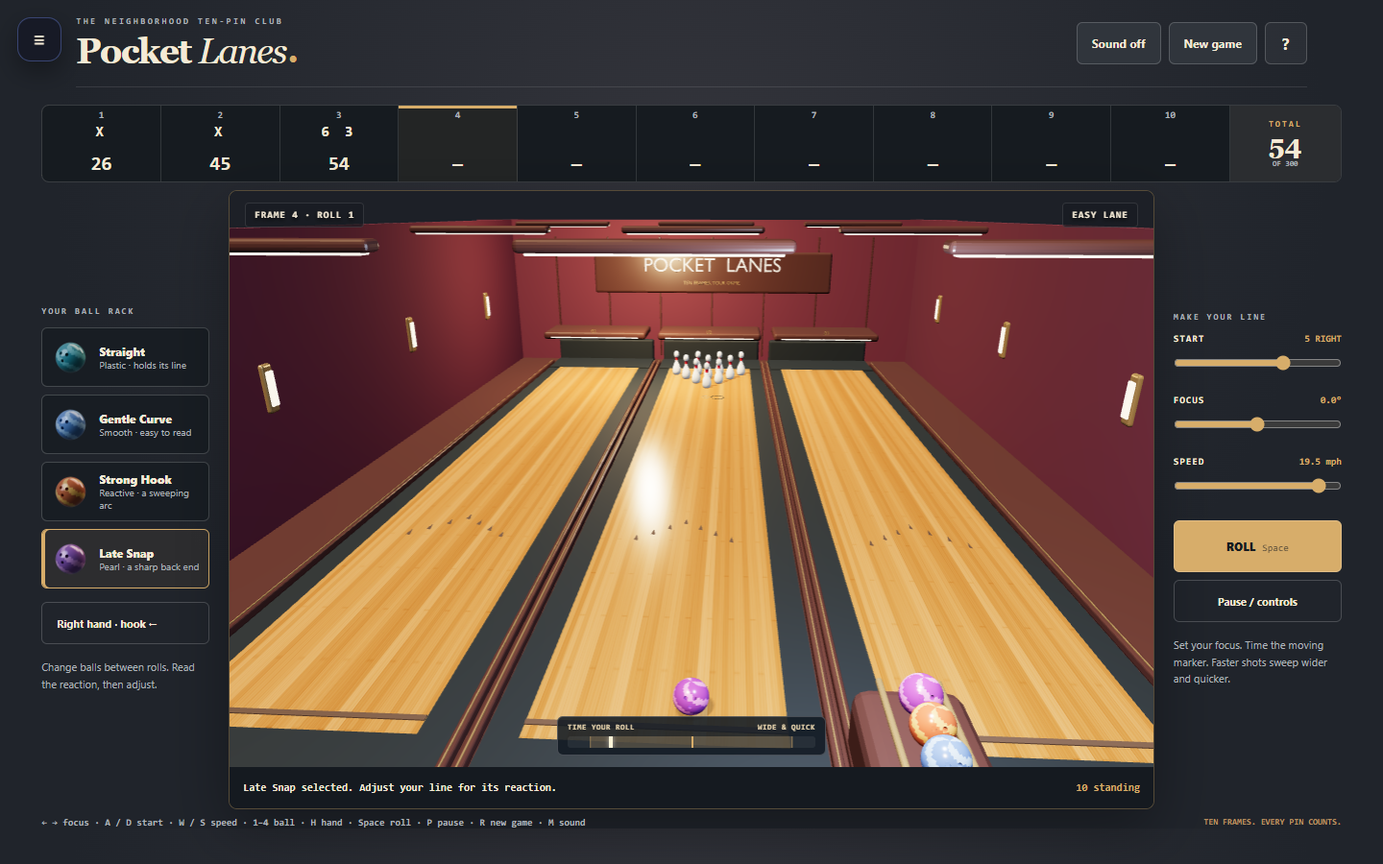
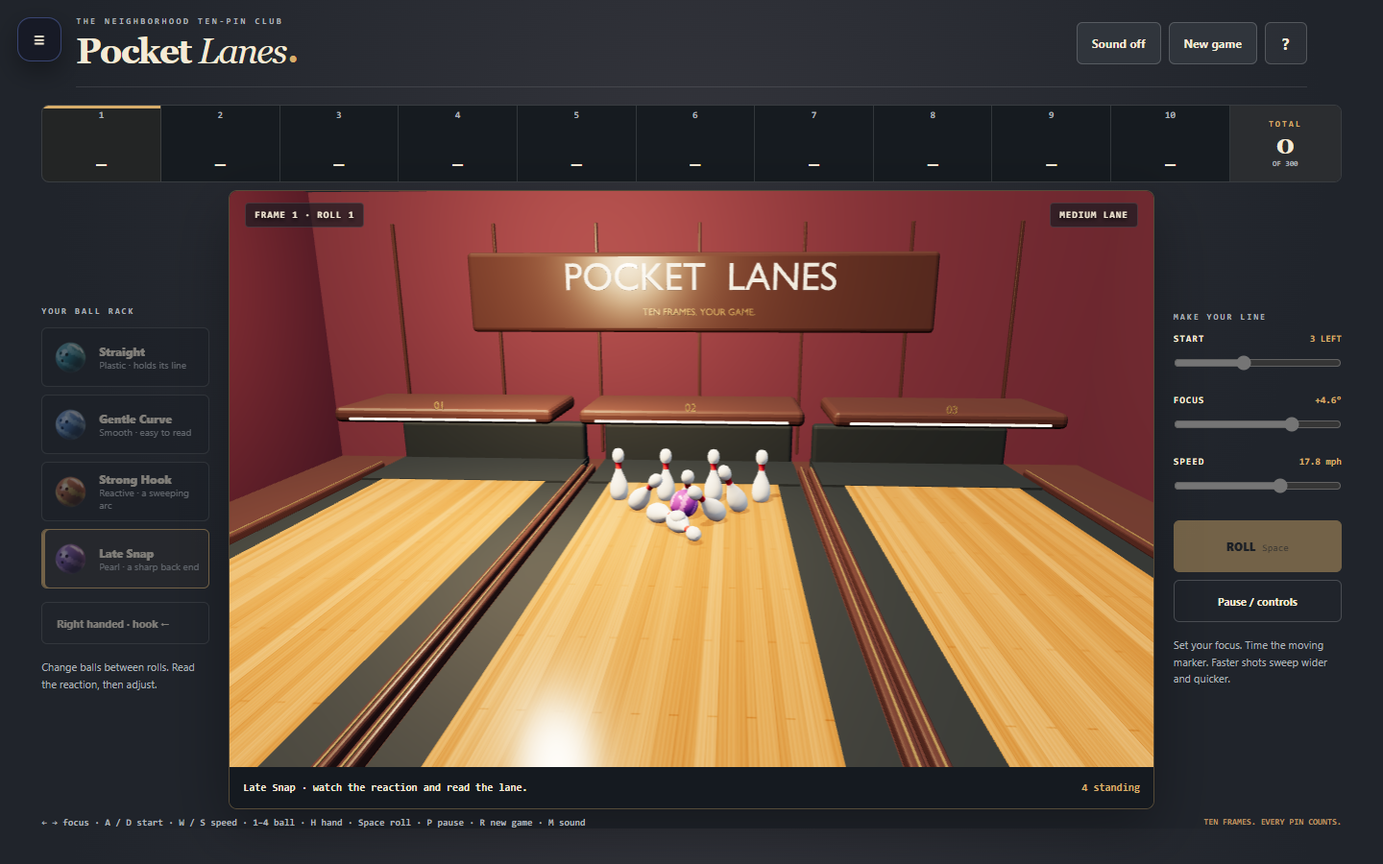
Streamline Pocket Lanes setup and strengthen release timing

diff --git a/pocket-lanes/game.js b/pocket-lanes/game.js
@@ -1,7 +1,10 @@
-import {BowlingView} from './art.js?v=larger-actors-4';
+import {BowlingView} from './art.js?v=quick-start-5';
 const E=window.PocketEngine,$=id=>document.getElementById(id),canvas=document.querySelector('canvas');
 let s=E.create(),view,loaded=false,paused=true,started=false,manual=false,last=performance.now(),accumulator=0,paint=true,sound=false,audio=null,keys=new Set(),drag=null,rollPointer=null,returnOverlay=null;
 const seen={get(){try{return sessionStorage.getItem('pocket-lanes-tenframes-v3-release');}catch{return null;}},set(){try{sessionStorage.setItem('pocket-lanes-tenframes-v3-release','seen');}catch{}}};
+let preferredHand=-1;try{preferredHand=localStorage.getItem('pocket-lanes-hand')==='1'?1:-1;}catch{}
+$('starting-hand').value=String(preferredHand);
+function rememberHand(hand){preferredHand=hand;$('starting-hand').value=String(hand);try{localStorage.setItem('pocket-lanes-hand',String(hand));}catch{}}
 const seed=()=>{try{return crypto.getRandomValues(new Uint32Array(1))[0];}catch{return(Date.now()^Math.floor(Math.random()*0xffffffff))>>>0;}};
 function text(id,value){const el=$(id);if(el.textContent!==String(value))el.textContent=String(value);}
 function resetInput(){keys.clear();drag=null;rollPointer=null;$('roll').classList.remove('held');}
@@ -11,12 +14,12 @@ function overlay(id){resetInput();paused=true;hideOverlays();$(id).hidden=false;
 function showSetup(){returnOverlay=null;$('cancel-setup').hidden=!started;overlay('setup-modal');}
 function showHelp(){returnOverlay=!$('setup-modal').hidden?'setup':s.phase==='complete'&&!$('result').hidden?'result':null;overlay('instruction-modal');text('instruction-close',started?'Return to your game':'Choose your lane');}
 function dismissHelp(){seen.set();hideOverlays();if(!started||returnOverlay==='setup')showSetup();else if(returnOverlay==='result')showResult();else{paused=false;canvas.focus({preventScroll:true});paint=true;sync();}returnOverlay=null;last=performance.now();}
-function startGame(complexity,ball,forcedSeed){s=E.create(complexity,forcedSeed??seed());s.ballId=ball||'straight';started=true;paused=false;hideOverlays();resetInput();syncInputs();paint=true;last=performance.now();accumulator=0;view?.render(s,0,true);canvas.focus({preventScroll:true});sync();}
+function startGame(complexity,ball,forcedSeed,hand=preferredHand){s=E.create(complexity,forcedSeed??seed());s.ballId=ball||'straight';s.hand=hand;rememberHand(hand);started=true;paused=false;hideOverlays();resetInput();syncInputs();paint=true;last=performance.now();accumulator=0;view?.render(s,0,true);canvas.focus({preventScroll:true});sync();}
 function showResult(){const result=E.score(s.frames),strikes=s.frames.flatMap((f,i)=>E.marks(f,i)).filter(v=>v==='X').length,spares=s.frames.flatMap((f,i)=>E.marks(f,i)).filter(v=>v==='/').length;text('final-score',result.total);text('result-title',result.total===300?'A perfect game.':result.total>=200?'A beautiful game.':"That's your game.");text('result-copy',s.complexity.charAt(0).toUpperCase()+s.complexity.slice(1)+' lane · '+strikes+' strikes · '+spares+' spares. A new game brings a new hidden pattern.');overlay('result');$('new-run').focus({preventScroll:true});}
 function syncInputs(){for(const [id,key]of[['position','pos'],['aim','aim'],['speed','speed']])$(id).value=s[key];}
 function syncRelease(){const visible=loaded&&started&&!paused&&s.phase==='ready';$('release-guide').hidden=!visible;if(!visible)return;const sweep=E.aimSweep(s);$('sweep-range').style.width=(sweep.amplitude/.076*96).toFixed(2)+'%';$('release-cursor').style.left=(50+sweep.offset/.076*48).toFixed(2)+'%';text('sweep-label',s.speed<.35?'GENTLE SWEEP':s.speed<.75?'STEADY SWEEP':'WIDE & QUICK');}
 function sync(){syncRelease();const score=E.score(s.frames);text('score',score.total);text('pending',score.pending?'BONUS PENDING':s.phase==='complete'?'FINAL / 300':'OF 300');text('frame-label',s.phase==='complete'?'TEN FRAMES COMPLETE':'FRAME '+s.frame+' · ROLL '+(s.frames[s.frame-1].rolls.length+1));text('lane-label',s.complexity.toUpperCase()+' LANE');text('message',s.last);text('standing',E.standing(s)+' standing');text('position-value',Math.abs(s.pos)<4?'CENTER':Math.round(Math.abs(s.pos)/296*39)+' '+(s.pos<0?'LEFT':'RIGHT'));text('aim-value',(s.aim>0?'+':'')+(Math.atan(s.aim)*180/Math.PI).toFixed(1)+'°');text('speed-value',((300+s.speed*150)*.02/.44704).toFixed(1)+' mph');
- const disabled=paused||!loaded||s.phase!=='ready';for(const id of['position','aim','speed','hand'])$(id).disabled=disabled;for(const b of document.querySelectorAll('.ball-choice')){b.disabled=disabled;b.setAttribute('aria-pressed',String(b.dataset.ball===s.ballId));}text('hand',s.hand<0?'Right hand · hook ←':'Left hand · hook →');$('hand').setAttribute('aria-pressed',String(s.hand>0));$('roll').disabled=paused||!loaded||s.phase==='rolling';const label=s.phase==='between'?'NEXT FRAME':s.phase==='complete'?'NEW GAME':'ROLL';if($('roll').dataset.label!==label){$('roll').dataset.label=label;$('roll').innerHTML=label+(label==='ROLL'?'<span>Space</span>':'');}
+ const disabled=paused||!loaded||s.phase!=='ready';for(const id of['position','aim','speed','hand'])$(id).disabled=disabled;for(const b of document.querySelectorAll('.ball-choice')){b.disabled=disabled;b.setAttribute('aria-pressed',String(b.dataset.ball===s.ballId));}text('hand',s.hand<0?'Right handed · hook ←':'Left handed · hook →');$('hand').setAttribute('aria-pressed',String(s.hand>0));$('hand').setAttribute('aria-label',s.hand<0?'Right handed, hook bends left. Switch to left handed.':'Left handed, hook bends right. Switch to right handed.');$('roll').disabled=paused||!loaded||s.phase==='rolling';const label=s.phase==='between'?'NEXT FRAME':s.phase==='complete'?'NEW GAME':'ROLL';if($('roll').dataset.label!==label){$('roll').dataset.label=label;$('roll').innerHTML=label+(label==='ROLL'?'<span>Space</span>':'');}
  for(let i=0;i<10;i++){const f=s.frames[i],cell=$('scorecard').children[i];cell.classList.toggle('current',s.frame===i+1);cell.querySelector('.frame-rolls').textContent=E.marks(f,i).join(' ');cell.querySelector('.frame-total').textContent=score.totals[i]??'—';cell.setAttribute('aria-label','Frame '+(i+1)+': '+(f.rolls.length?E.marks(f,i).join(', '):'not bowled')+', score '+(score.totals[i]??'pending'));}
 }
 function chooseBall(id){if(paused||s.phase!=='ready')return;s.ballId=id;s.last=E.balls.find(b=>b.id===id).name+' selected. Adjust your line for its reaction.';paint=true;sync();}
@@ -26,9 +29,9 @@ function simulate(dt){if(paused||!started)return;if(s.phase==='ready'){const axi
 for(let i=1;i<=10;i++){$('scorecard').insertAdjacentHTML('beforeend','<div class="frame-cell"><span class="frame-number">'+i+'</span><span class="frame-rolls"></span><b class="frame-total">—</b></div>');}
 for(const ball of E.balls){const b=document.createElement('button');b.className='ball-choice';b.dataset.ball=ball.id;b.setAttribute('aria-pressed',String(ball.id===s.ballId));b.innerHTML='<img src="assets/'+ball.id+'.png" alt=""><div><b>'+ball.name+'</b><span>'+ball.subtitle+'</span></div>';b.addEventListener('click',()=>chooseBall(ball.id));$('balls').append(b);}
 for(const [id,k]of[['position','pos'],['aim','aim'],['speed','speed']])$(id).addEventListener('input',()=>{if(paused||s.phase!=='ready')return;s[k]=Number($(id).value);paint=true;sync();});
-$('hand').addEventListener('click',()=>{if(!paused&&s.phase==='ready'){s.hand*=-1;paint=true;sync();}});
+$('hand').addEventListener('click',()=>{if(!paused&&s.phase==='ready'){s.hand*=-1;rememberHand(s.hand);paint=true;sync();}});
 $('roll').addEventListener('pointerdown',e=>{if($('roll').disabled)return;e.preventDefault();rollPointer=e.pointerId;$('roll').setPointerCapture(e.pointerId);$('roll').classList.add('held');});$('roll').addEventListener('pointerup',e=>{if(rollPointer!==e.pointerId)return;e.preventDefault();rollPointer=null;$('roll').classList.remove('held');const r=$('roll').getBoundingClientRect();if(e.clientX>=r.left&&e.clientX<=r.right&&e.clientY>=r.top&&e.clientY<=r.bottom)roll();});for(const type of['pointercancel','lostpointercapture'])$('roll').addEventListener(type,()=>{rollPointer=null;$('roll').classList.remove('held');});$('roll').addEventListener('click',e=>{if(e.detail===0)roll();});
-$('instruction-close').addEventListener('click',dismissHelp);for(const id of['help-button','pause'])$(id).addEventListener('click',showHelp);$('restart-button').addEventListener('click',showSetup);$('new-run').addEventListener('click',showSetup);$('view-score').addEventListener('click',()=>{hideOverlays();paused=false;paint=true;sync();canvas.focus({preventScroll:true});});$('cancel-setup').addEventListener('click',()=>{hideOverlays();paused=false;if(s.phase==='complete')showResult();paint=true;sync();});$('start-match').addEventListener('click',()=>startGame(document.querySelector('[name=complexity]:checked').value,$('starting-ball').value));$('sound').addEventListener('click',toggleSound);
+$('instruction-close').addEventListener('click',dismissHelp);for(const id of['help-button','pause'])$(id).addEventListener('click',showHelp);$('restart-button').addEventListener('click',showSetup);$('new-run').addEventListener('click',showSetup);$('view-score').addEventListener('click',()=>{hideOverlays();paused=false;paint=true;sync();canvas.focus({preventScroll:true});});$('cancel-setup').addEventListener('click',()=>{hideOverlays();paused=false;if(s.phase==='complete')showResult();paint=true;sync();});$('start-match').addEventListener('click',()=>startGame(document.querySelector('[name=complexity]:checked').value,$('starting-ball').value,undefined,Number($('starting-hand').value)));$('sound').addEventListener('click',toggleSound);
 const moveKeys=['ArrowLeft','ArrowRight','a','d','w','s'];window.addEventListener('keydown',e=>{const k=e.key.length===1?e.key.toLowerCase():e.key,active=[...document.querySelectorAll('.modal')].find(m=>!m.hidden&&getComputedStyle(m).display!=='none');if(active){if(k==='Tab'){const all=[...active.querySelectorAll('button:not([hidden]):not(:disabled),a,select,input')].filter(x=>x.getClientRects().length),i=all.indexOf(document.activeElement);if(e.shiftKey&&i<=0){e.preventDefault();all.at(-1)?.focus();}else if(!e.shiftKey&&i===all.length-1){e.preventDefault();all[0]?.focus();}}return;}const range=e.target.matches('input[type=range]');if(!e.repeat&&k==='r'){e.preventDefault();showSetup();return;}if(!e.repeat&&k==='m')toggleSound();if(!e.repeat&&(k==='p'||k==='Escape')){e.preventDefault();showHelp();return;}if(!e.repeat&&k===' '){e.preventDefault();roll();return;}if(range)return;if(!e.repeat&&['1','2','3','4'].includes(k)){e.preventDefault();chooseBall(E.balls[Number(k)-1].id);}if(!e.repeat&&k==='h'&&!paused&&s.phase==='ready'){$('hand').click();}if(moveKeys.includes(k)){e.preventDefault();if(!paused)keys.add(k);}});window.addEventListener('keyup',e=>keys.delete(e.key.length===1?e.key.toLowerCase():e.key));
 canvas.addEventListener('pointerdown',e=>{if(paused||s.phase!=='ready')return;e.preventDefault();const p=view.ground(e.clientX,e.clientY);if(!p)return;canvas.focus({preventScroll:true});canvas.setPointerCapture(e.pointerId);drag=e.pointerId;if(p.y<280&&p.y>-180&&Math.abs(p.x)<190)s.pos=E.clamp(p.x,-115,115);else if(p.y>180)s.aim=E.clamp((p.x-s.pos)/(p.y-28),-.18,.18);syncInputs();paint=true;sync();});canvas.addEventListener('pointermove',e=>{if(drag!==e.pointerId)return;e.preventDefault();const p=view.ground(e.clientX,e.clientY);if(!p||p.y<100)return;s.aim=E.clamp((p.x-s.pos)/(p.y-28),-.18,.18);syncInputs();paint=true;sync();});for(const type of['pointerup','pointercancel','lostpointercapture'])canvas.addEventListener(type,()=>{drag=null;});canvas.addEventListener('contextmenu',e=>e.preventDefault());
 window.addEventListener('vibecade:reset-input',resetInput);window.addEventListener('vibecade:restart',e=>{e.preventDefault();showSetup();});window.addEventListener('blur',()=>{resetInput();if(started&&!paused&&s.phase!=='complete')showHelp();});document.addEventListener('visibilitychange',()=>{if(document.hidden){resetInput();if(started&&!paused&&s.phase!=='complete')showHelp();}});
@@ -37,4 +40,4 @@ document.addEventListener('bowling-render-error',e=>renderError(e.detail));
 if(seen.get()){$('instruction-modal').classList.remove('is-visible');$('instruction-modal').hidden=true;showSetup();}else overlay('instruction-modal');sync();
 try{view=new BowlingView();await view.load();loaded=true;$('load-state').hidden=true;$('instruction-close').disabled=false;$('start-match').disabled=false;text('instruction-close',started?'Return to your game':'Choose your lane');view.render(s,0,true);sync();}catch(e){console.error(e);renderError('Unable to open the 3D hall. Reload to try again.');}
 function frame(now){const dt=Math.max(0,Math.min(.05,(now-last)/1000));last=now;if(!manual&&!paused){accumulator+=dt;while(accumulator>=1/120){simulate(1/120);accumulator-=1/120;}}if(paint&&!paused||paint&&!started||started&&!paused&&s.phase==='ready'){view?.render(s,dt);syncRelease();if(paint)sync();paint=false;}requestAnimationFrame(frame);}requestAnimationFrame(frame);
-if(new URLSearchParams(location.search).has('test'))window.lanesTest={manual(v){manual=v;},start(c='easy',b='straight',n=1){startGame(c,b,n);},state(){const {oil,...visible}=s;return JSON.parse(JSON.stringify({...visible,score:E.score(s.frames),paused,loaded,sound,sweep:E.aimSweep(s),drag:drag!==null}));},step(t){for(let i=0;i<Math.round(t*120);i++)simulate(1/120);view?.render(s,0,true);sync();},project(x,y){const p=view.project(x,y),r=canvas.getBoundingClientRect();return{x:r.x+(p.x+1)*.5*r.width,y:r.y+(1-p.y)*.5*r.height};},renderer(){return{calls:view.renderer.info.render.calls,triangles:view.renderer.info.render.triangles,geometries:view.renderer.info.memory.geometries,blenderModels:view.model.children.length,shadowCasters:(()=>{const a=[];view.model.traverse(o=>{if(o.isMesh&&o.castShadow)a.push(o.name)});return a;})()};}};
+if(new URLSearchParams(location.search).has('test'))window.lanesTest={manual(v){manual=v;},start(c='easy',b='straight',n=1,h=-1){startGame(c,b,n,h);},state(){const {oil,...visible}=s;return JSON.parse(JSON.stringify({...visible,score:E.score(s.frames),paused,loaded,sound,sweep:E.aimSweep(s),drag:drag!==null}));},step(t){for(let i=0;i<Math.round(t*120);i++)simulate(1/120);view?.render(s,0,true);sync();},project(x,y){const p=view.project(x,y),r=canvas.getBoundingClientRect();return{x:r.x+(p.x+1)*.5*r.width,y:r.y+(1-p.y)*.5*r.height};},renderer(){return{calls:view.renderer.info.render.calls,triangles:view.renderer.info.render.triangles,geometries:view.renderer.info.memory.geometries,blenderModels:view.model.children.length,shadowCasters:(()=>{const a=[];view.model.traverse(o=>{if(o.isMesh&&o.castShadow)a.push(o.name)});return a;})()};}};

diff --git a/pocket-lanes/index.html b/pocket-lanes/index.html
@@ -1,5 +1,5 @@
 <!doctype html>
-<html lang="en"><head><meta charset="utf-8"><meta name="viewport" content="width=device-width,initial-scale=1,viewport-fit=cover"><meta name="theme-color" content="#20242b"><title>Pocket Lanes · Ten-frame bowling</title><link rel="icon" href="data:,"><link rel="stylesheet" href="../flyout.css"><link rel="stylesheet" href="style.css?v=larger-actors-4"><script type="importmap">{"imports":{"three":"./vendor/three.module.min.js"}}</script></head><body class="overlay-open">
+<html lang="en"><head><meta charset="utf-8"><meta name="viewport" content="width=device-width,initial-scale=1,viewport-fit=cover"><meta name="theme-color" content="#20242b"><title>Pocket Lanes · Ten-frame bowling</title><link rel="icon" href="data:,"><link rel="stylesheet" href="../flyout.css"><link rel="stylesheet" href="style.css?v=quick-start-5"><script type="importmap">{"imports":{"three":"./vendor/three.module.min.js"}}</script></head><body class="overlay-open">
 <nav id="flyout-nav" class="flyout-nav" aria-label="Arcade" aria-hidden="true"><button class="flyout-toggle" aria-label="Open arcade menu">☰</button><div id="flyout-panel" class="flyout-panel"></div></nav>
 <header><div class="brand"><small>THE NEIGHBORHOOD TEN-PIN CLUB</small><h1>Pocket <i>Lanes</i><span> ●</span></h1></div><div class="header-actions"><button id="sound" aria-pressed="false" aria-label="Toggle sound">Sound off</button><button id="restart-button">New game</button><button id="help-button" aria-label="Pause and show instructions">?</button></div></header>
 <main><section class="scoreboard" aria-label="Ten-frame bowling scorecard"><div id="scorecard" class="score-grid"></div><div class="score-total"><small>TOTAL</small><b id="score">0</b><span id="pending">OF 300</span></div></section>
@@ -7,7 +7,7 @@
 <section class="cabinet" aria-label="Three-dimensional bowling lane"><div id="playfield"><canvas tabindex="0" aria-label="3D bowling lane. Set an aim focus with a drag or the focus slider. Time Roll as the moving marker sweeps past your chosen line."></canvas><div class="scene-label"><span id="frame-label">FRAME 1 · ROLL 1</span><span id="lane-label">EASY LANE</span></div><div id="release-guide" aria-hidden="true" hidden><div class="release-caption"><span>TIME YOUR ROLL</span><span id="sweep-label">GENTLE SWEEP</span></div><div class="release-track"><span id="sweep-range"></span><i class="focus-tick"></i><i id="release-cursor"></i></div></div><div id="load-state" role="status">Opening the bowling hall…</div></div><div class="readout"><span id="message" aria-live="polite">Ten frames. Your game.</span><span id="standing">10 standing</span></div></section>
 <aside id="shot-controls" aria-label="Shot controls"><div class="section-label">MAKE YOUR LINE</div><label for="position">START <output id="position-value">CENTER</output></label><input id="position" aria-label="Starting position" type="range" min="-115" max="115" value="0" step="1"><label for="aim">FOCUS <output id="aim-value">0°</output></label><input id="aim" aria-label="Aim focus" type="range" min="-0.18" max="0.18" value="0" step="0.001"><label for="speed">SPEED <output id="speed-value">18 mph</output></label><input id="speed" aria-label="Ball speed" type="range" min="0" max="1" value="0.65" step="0.05"><button id="roll" disabled>ROLL <span>Space</span></button><button id="pause">Pause / controls</button><p class="rack-note">Set your focus. Time the moving marker. Faster shots sweep wider and quicker.</p></aside></div>
 <footer>← → focus · A / D start · W / S speed · 1–4 ball · H hand · Space roll · P pause · R new game · M sound <span>TEN FRAMES. EVERY PIN COUNTS.</span></footer></main>
-<div id="instruction-modal" class="modal is-visible" role="dialog" aria-modal="true" aria-labelledby="instruction-title"><div class="modal-card"><small>WELCOME BACK TO THE LANES</small><h2 id="instruction-title" tabindex="-1">Ten frames.<br>Make them yours.</h2><p>Bowl a full game with <b>standard ten-pin scoring</b>. Strikes earn your next two rolls; spares earn your next roll. The tenth frame grants the usual bonus balls. The maximum is 300.</p><p><b>Choose your equipment.</b> Straight holds its line, Gentle Curve rolls a smooth arc, Strong Hook sweeps harder, and Late Snap saves its sharp turn for the back end. Switch balls between shots; choose right or left hand to reverse the hook.</p><p><b>Read the lane.</b> Easy, Medium or Hard selects a new random oil pattern. It stays <b>invisible and consistent for all ten frames</b>. Oil makes the ball slide; dry boards let it grip. Watch your shots and adjust.</p><p><b>Focus, then time your roll.</b> Drag toward your chosen line, or use START and FOCUS. The brass ring marks your focus; the bright ring sweeps around it. ROLL captures the moving aim when you release the button (or press Space). <b>Slow shots sweep narrowly and gently. Faster shots sweep wider and quicker.</b> Watch the marker, then take your shot.</p><p class="keyboard-help">← → aim · A / D start · W / S speed · 1–4 ball · H hand · Space roll · P pause · R new game · M sound.</p><button id="instruction-close" disabled>Loading the hall…</button><a href="../">Back to the arcade ↗</a></div></div>
-<div id="setup-modal" class="modal" role="dialog" aria-modal="true" aria-labelledby="setup-title" hidden><div class="modal-card setup-card"><small>YOUR NEXT TEN FRAMES</small><h2 id="setup-title" tabindex="-1">Pick your lane.</h2><p>One hidden oil pattern per game. Learn it as you bowl.</p><fieldset><legend>Lane complexity</legend><div class="lane-options"><label><input type="radio" name="complexity" value="easy" checked><b>Easy</b><span>A forgiving house pattern</span></label><label><input type="radio" name="complexity" value="medium"><b>Medium</b><span>More variation across the lane</span></label><label><input type="radio" name="complexity" value="hard"><b>Hard</b><span>Demanding sport-style conditions</span></label></div></fieldset><label class="select-label" for="starting-ball">Start with</label><select id="starting-ball"><option value="straight">Straight — plastic, holds its line</option><option value="gentle">Gentle Curve — a smooth arc</option><option value="hook">Strong Hook — a sweeping arc</option><option value="snap">Late Snap — a sharp back end</option></select><button id="start-match" disabled>Start ten frames</button><button id="cancel-setup" class="secondary" hidden>Return to your game</button></div></div>
+<div id="instruction-modal" class="modal is-visible" role="dialog" aria-modal="true" aria-labelledby="instruction-title"><div class="modal-card intro-card"><small>POCKET LANES</small><h2 id="instruction-title" tabindex="-1">Your lane. Ten frames.</h2><button id="instruction-close" disabled>Loading the hall…</button><p>Drag to aim, then tap <b>ROLL</b> as the moving marker crosses the center. Faster shots make timing harder; big misses can find the gutter.</p><p>Choose your ball, hand and lane. Hooks follow your hand; the hidden oil stays the same all game. Standard ten-pin scoring.</p><p class="keyboard-help">← → focus · A / D start · W / S speed<br>1–4 ball · H hand · Space roll · P pause</p><a href="../">Back to the arcade ↗</a></div></div>
+<div id="setup-modal" class="modal" role="dialog" aria-modal="true" aria-labelledby="setup-title" hidden><div class="modal-card setup-card"><div class="setup-heading"><h2 id="setup-title" tabindex="-1">Your next game.</h2><button id="start-match" disabled>Start ten frames</button></div><p class="setup-note">One hidden oil pattern. Ten frames. Your score.</p><fieldset><legend>Lane complexity</legend><div class="lane-options"><label><input type="radio" name="complexity" value="easy" checked><b>Easy</b></label><label><input type="radio" name="complexity" value="medium"><b>Medium</b></label><label><input type="radio" name="complexity" value="hard"><b>Hard</b></label></div></fieldset><div class="setup-equipment"><div><label class="select-label" for="starting-ball">Starting ball</label><select id="starting-ball"><option value="straight">Straight</option><option value="gentle">Gentle Curve</option><option value="hook">Strong Hook</option><option value="snap">Late Snap</option></select></div><div><label class="select-label" for="starting-hand">Bowling hand</label><select id="starting-hand"><option value="-1">Right handed · hook ←</option><option value="1">Left handed · hook →</option></select></div></div><button id="cancel-setup" class="secondary" hidden>Return to your game</button></div></div>
 <div id="result" class="modal" role="dialog" aria-modal="true" aria-labelledby="result-title" hidden><div class="modal-card result-card"><small>TEN FRAMES IN THE BOOKS</small><h2 id="result-title">That's your game.</h2><div class="final-score"><b id="final-score">0</b><span>/ 300</span></div><p id="result-copy"></p><button id="new-run">Bowl again</button><button id="view-score" class="secondary">View scorecard</button></div></div>
-<script src="../flyout.js"></script><script src="engine.js?v=larger-actors-4"></script><script type="module" src="game.js?v=larger-actors-4"></script></body></html>
+<script src="../flyout.js"></script><script src="engine.js?v=quick-start-5"></script><script type="module" src="game.js?v=quick-start-5"></script></body></html>

diff --git a/pocket-lanes/engine.js b/pocket-lanes/engine.js
@@ -17,8 +17,8 @@ function score(frames){const flat=frames.flatMap(f=>f.rolls),totals=[],frameScor
 function standing(s){return s.pins.filter(p=>!p.removed&&!p.down).length;}
 function fresh(s){s.pins=pins();s.ball=null;s.gutter=false;}
 function record(s,n){const f=s.frames[s.frame-1];if(s.phase!=='rolling')return;const available=standing(s)+s.pins.filter(p=>p.down&&!p.removed).length;if(!Number.isInteger(n)||n<0||n>available)throw Error('Invalid pinfall');f.rolls.push(n);s.ball=null;for(const p of s.pins)if(p.down)p.removed=true;let complete=false,reset=false;if(s.frame<10){complete=f.rolls.length===2||n===10;}else{const r=f.rolls;if(r.length===1&&n===10)reset=true;else if(r.length===2){if(r[0]<10&&r[0]+r[1]<10)complete=true;else if(r[0]<10||r[1]===10)reset=true;}else if(r.length===3)complete=true;}f.complete=complete;const strike=n===10,spare=!strike&&f.rolls.length>=2&&f.rolls.at(-2)+n===10;s.last=strike?'Strike. Beautiful line.':spare?'Spare. Nicely recovered.':n===0?'Gutter or miss. Take a moment and adjust.':n+' down. '+standing(s)+' standing.';s.events.push(strike?'strike':spare?'spare':'ready');if(complete){s.phase=s.frame===10?'complete':'between';if(s.phase==='complete')s.last='Game complete · '+score(s.frames).total+' / 300';}else{s.phase='ready';if(reset)fresh(s);}}
-// Aim focus stays fixed; only the visible release cursor sweeps around it.
-function aimSweep(s){const speed=clamp(s.speed,0,1),amplitude=.006+.070*Math.pow(speed,1.65),frequency=.22+.72*Math.pow(speed,1.35),offset=Math.sin(s.aimPhase)*amplitude;return{focus:s.aim,amplitude,frequency,offset,angle:s.aim+offset};}
+// Fixed focus; timing distance on the meter has twice the steering impact.
+function aimSweep(s){const speed=clamp(s.speed,0,1),amplitude=.006+.070*Math.pow(speed,1.65),frequency=.22+.72*Math.pow(speed,1.35),offset=Math.sin(s.aimPhase)*amplitude;return{focus:s.aim,amplitude,frequency,offset,angle:s.aim+2*offset};}
 function launch(s){if(s.phase!=='ready')return false;const release=aimSweep(s).angle;s.releaseAim=release;s.phase='rolling';s.clock=0;s.settle=0;s.gutter=false;const v=300+s.speed*150;s.ball={x:s.pos,y:28,vx:release*v,vy:v,rotation:0,trail:[],traveled:0};s.events.push('roll');s.last=balls.find(b=>b.id===s.ballId).name+' · watch the reaction and read the lane.';return true;}
 function knock(s,p,vx,vy){if(p.down||p.removed)return;p.down=true;p.vx=vx*.52;p.vy=vy*.52;p.angle=Math.atan2(vx,vy);s.events.push('pin');}
 function step(s,dt){if(s.phase==='complete')return;s.time+=dt;s.aimPhase=(s.aimPhase+Math.PI*2*aimSweep(s).frequency*dt)%(Math.PI*2);if(s.phase!=='rolling')return;s.clock+=dt;const b=s.ball,profile=balls.find(v=>v.id===s.ballId);if(b.y<1080){const oil=oilAt(s.oil,b.x,b.y),grip=.04+.96*(1-oil),late=profile.late?1/(1+Math.exp(-(b.y-s.oil.length-82)/24)):1;if(!s.gutter){b.vx+=s.hand*profile.gain*grip*late*dt;b.vy*=Math.exp(-.04*grip*dt);b.x+=b.vx*dt;if(Math.abs(b.x)>148){s.gutter=true;b.x=Math.sign(b.x)*168;b.vx=0;s.events.push('gutter');s.last='In the gutter. Adjust your start or use a straighter ball.';}}b.y+=b.vy*dt;b.rotation+=b.vy*dt/(16*actorScale);if(!s.gutter)for(const p of s.pins){if(p.down||p.removed)continue;const dx=p.x-b.x,dy=p.y-b.y;if(dx*dx+dy*dy<(27*actorScale)**2){const a=Math.atan2(dy,dx),v=Math.hypot(b.vx,b.vy);knock(s,p,(Math.cos(a)*v*.65+b.vx*.4)*1.55,(Math.sin(a)*v*.65+b.vy*.22)*1.55);b.vx-=Math.cos(a)*22;b.vy*=.97;}}}else s.settle+=dt;

diff --git a/pocket-lanes/style.css b/pocket-lanes/style.css
@@ -11,3 +11,8 @@
 
 #release-guide{position:absolute;left:50%;bottom:12px;transform:translateX(-50%);width:min(280px,78%);padding:6px 10px 7px;border:1px solid #ffffff35;border-radius:6px;background:#111922de;pointer-events:none}#release-guide[hidden]{display:none}.release-caption{display:flex;justify-content:space-between;gap:8px;font:700 8px monospace;letter-spacing:.6px;color:#e7d4ad;margin-bottom:5px}.release-track{height:12px;background:#ffffff10;position:relative;border-radius:3px;overflow:hidden}#sweep-range{position:absolute;left:50%;top:0;height:100%;transform:translateX(-50%);background:#d7ad6a35;border-left:1px solid #d7ad6a80;border-right:1px solid #d7ad6a80}.focus-tick{position:absolute;left:50%;top:0;height:100%;width:2px;background:#d7ad6a}#release-cursor{position:absolute;left:50%;top:0;height:100%;width:4px;transform:translateX(-50%);background:#fff5d8;box-shadow:0 0 5px #fff9}@media(max-width:900px),(pointer:coarse){#release-guide{bottom:8px;padding:5px 8px;width:min(240px,84%)}.release-caption{font-size:7px;margin-bottom:4px;letter-spacing:0}.release-track{height:10px}}
 @media(max-width:900px),(pointer:coarse){#release-guide{bottom:22%}}
+
+/* Compact opening: the primary action precedes every optional setting. */
+.intro-card h2{font-size:34px;margin:8px 0 14px}.intro-card #instruction-close{margin:0}.intro-card p{margin:12px 0;line-height:1.5}.intro-card .keyboard-help{color:var(--muted);margin-bottom:0}
+.setup-card{padding:24px}.setup-heading{display:flex;align-items:center;justify-content:space-between;gap:16px}.setup-heading h2{font-size:32px;margin:0}.setup-heading #start-match{width:auto;flex:none;margin:0}.setup-card .setup-note{font-size:12px;margin:12px 0;color:var(--muted)}.setup-card fieldset{margin:12px 0}.setup-card legend{margin-bottom:6px}.setup-card .lane-options{grid-template-columns:repeat(3,minmax(0,1fr))}.setup-card .lane-options label{min-height:44px;padding:10px 8px}.setup-equipment{display:grid;grid-template-columns:1fr 1.15fr;gap:12px}.setup-equipment>div{min-width:0}.setup-equipment .select-label{margin-bottom:6px}.setup-equipment select{padding:8px;width:100%;margin:0}
+@media(max-width:900px),(pointer:coarse){.intro-card,.setup-card{padding:20px}.intro-card h2{font-size:30px}.intro-card p{font-size:12px;margin:10px 0}.intro-card .keyboard-help{font-size:10px!important}.intro-card a{margin-top:10px}.setup-heading{gap:10px}.setup-heading h2{font-size:26px}.setup-heading #start-match{padding:10px;font-size:11px}.setup-equipment{gap:8px}.setup-equipment select{font-size:11px}.setup-card .lane-options b{font-size:12px}}

diff --git a/offline-assets.js b/offline-assets.js
@@ -1,8 +1,8 @@
 // Generated by scripts/build-offline.cjs. Do not edit by hand.
 self.VIBECADE_OFFLINE = {
-  "version": "aa093c3dc1b410e8",
+  "version": "29d66ac48dd5e468",
   "games": 60,
-  "bytes": 26117913,
+  "bytes": 26098968,
   "assets": [
     "alpine-line/art.js",
     "alpine-line/game.js",

diff --git a/pocket-lanes/VERIFICATION.md b/pocket-lanes/VERIFICATION.md
@@ -61,3 +61,19 @@ New tests check stable focus, speed-dependent sweep width/rate, exact mouse/touc
 All ten pin centers retain their 76-unit horizontal and 33-unit row pitch. Every Blender pin and all four bowling-ball models are uniformly scaled to 1.3. Lane geometry, camera, aim focus/sweep, oil and ball reaction profiles are unchanged. Standing pins remain clear of the gutters. The ball stays seated on the lane and fallen-pin contact height follows its larger geometry. Collision radii and ball rotation radius use the same 1.3 scale; no mass, launch-speed or timing changes were introduced. The ball-rack centers retain their horizontal spacing, with a small height correction for the larger radius. Ball-selection portraits remain unchanged.
 
 Verified all exported pin translations are byte-identical in value to the previous release, and all actor scale vectors are 1.3. Standard scoring fixtures, 90 random games, release capture and complete browser games pass. The same preset no longer has the earlier pinfall values because the contact surfaces are now larger; the current timing sample yields 10/10/6/6/10/10/6/9/3/6/6/10 pins.
+
+
+## Compact opening, handedness and stronger timing penalty
+
+Agent Yoda, 2026-11-20 (UTC). Intro copy is reduced to two short paragraphs and a compact keyboard reference, with its primary button above the instructions. Setup places Start beside the heading, keeps lane options in one row, and exposes ball and bowling hand together. Both opening cards fit without scrolling at 1440×900, 667×375, 740×390, 844×390 and 390×844. Same-session returns skip the intro after the existing mobile fullscreen launch gate; new games still require an intentional Start.
+
+The explicit Right handed / Left handed setup selector reverses every ball's hook. Right hooks left, Left hooks right. The in-game hand button and H shortcut continue to switch between rolls. The chosen hand is remembered locally and reused for the next game; unavailable browser storage remains a supported fallback.
+
+Meter width, sweep frequency, focus, lane geometry and the 1.3 actor scale are unchanged. The captured release angle is now focus plus twice the meter's timing offset. The bright lane ring previews that actual launch direction. A centered release keeps the chosen line; timing errors grow continuously without a hidden random penalty or forced gutter threshold. Maximum-speed release-angle deviation is now ±8.71°, and minimum-speed deviation is ±0.69°.
+
+The engine suite checks all four mirrored reactions on symmetric oil, doubled release steering, exact center capture, scoring and 90 complete random games. On one fixed Easy line at maximum speed, centered timing knocked down 10 pins, a small timing miss knocked down 6 without a gutter, and the wide miss guttered before the rack for 0. Twelve otherwise identical fast releases now produce 10/6/3/1/6/10/9/1/0/1/6/10. These supersede prior release-timing samples.
+
+`opening.cjs` captures both opening cards at all five sizes, bowls actual setup-selected left and right hooks, checks hand persistence, cancel behavior, paused repeat launch and clean console. Run alongside `engine.test.cjs`, `focused.cjs`, `verify.cjs` and `release-check.cjs` using the documented local server and Playwright environment.
+
+
+All browser suites passed with no console/page errors. The unchanged coarse shot policy now scores 123 / 143 / 155 on seed 23 for Easy / Medium / Hard respectively; these are the current full-game regression values after doubling timing impact. Isolated Chrome timing measured 17.68 ms mean / 18.3 ms p95 during maximum-speed ready animation and 17.67 / 18.3 ms while rolling. The multi-context suite recorded one 463 ms scheduling stall with p95 18.4 ms. Physical-phone performance remains unmeasured. The refreshed `gameplay.png` shows an actual rolling shot at pin impact.
